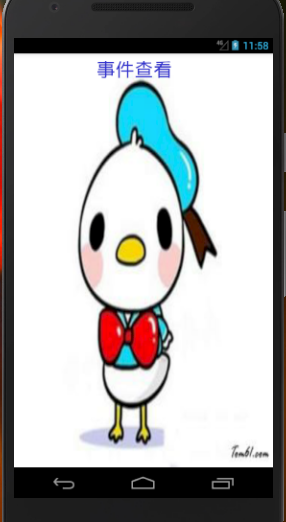
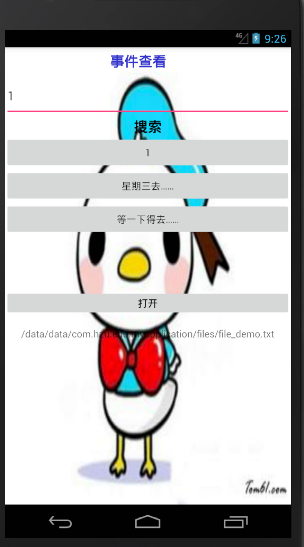
#5 第五次实验

diff --git a/soft1614080902428/java/chakan.java b/soft1614080902428/java/chakan.java
@@ -1,14 +1,158 @@
 package com.hzu.edu.myapplication;
 
+import android.app.Activity;
+import android.content.Intent;
 import android.os.Bundle;
+import android.support.design.widget.FloatingActionButton;
+import android.support.design.widget.Snackbar;
 import android.support.v7.app.AppCompatActivity;
+import android.support.v7.widget.Toolbar;
+import android.view.View;
+import android.widget.Button;
+import android.support.v7.app.AppCompatActivity;
+import android.os.Bundle;
+import java.util.ArrayList;
+import java.util.HashMap;
+import java.util.List;
+import java.util.Map;
+import android.app.Activity;
+import android.app.ListActivity;
+import android.content.Intent;
+import android.os.Bundle;
+import android.util.Log;
+import android.view.View;
+import android.widget.Button;
+import android.widget.ListView;
+import android.widget.SimpleAdapter;
+import android.widget.Toast;
+import android.support.v7.app.AppCompatActivity;
+
+import android.os.Bundle;
+
+import android.view.View;
+
+import android.widget.Button;
+
+import android.app.Activity;
+
+import android.content.Intent;
+
+import android.os.Environment;
+
+import android.util.Log;
+
+import android.widget.Button;
+
+import android.widget.EditText;
+
+import android.widget.TextView;
+
+import android.widget.Toast;
+
+
+
+import java.io.BufferedInputStream;
+
+import java.io.BufferedReader;
+
+import java.io.File;
+
+import java.io.FileInputStream;
+
+import java.io.FileNotFoundException;
+
+import java.io.FileOutputStream;
+
+import java.io.FileReader;
+
+import java.io.IOException;
 
 public class chakan extends AppCompatActivity {
 
+    public static final String DIRECTORY = "demo";
+    public static final String FILENAME = "file_demo.txt";
+    public static final String TAG = chakan.class.getSimpleName();
     @Override
     protected void onCreate(Bundle savedInstanceState) {
         super.onCreate(savedInstanceState);
         setContentView(R.layout.activity_chakan);
+        final Activity thisActivity = this;
+        ((Button) findViewById(R.id.Button5)).setOnClickListener(new View.OnClickListener() {
+            @Override
+            public void onClick(View view) {
+                String text = ((EditText) findViewById(R.id.edit_text)).getText().toString();
+                saveTextIntoInternalStorage(text);
+            }
+        });
+
+    }
+    // 将文字保存到内部存储
+    private void saveTextIntoInternalStorage(String text) {
+        // 获取内部存储目录
+        File dir = this.getFilesDir();
+        //File dir = getCacheDir();
+        if (dir.isDirectory()) {
+//            dir.mkdir();
+//            dir.mkdirs();
+        }
+        if (dir.isFile()) {
+            // D:/Abc.txt , -> D:/Abc1.txt ->D:/abc.txt
+        }
+        File file = new File(dir, FILENAME);
+//        try {
+//            File = File.createTempFile(FILENAME, null, dir);
+//        } catch (IOException e) {
+//            e.printStackTrace();
+//        }
+        if (file.exists()) { // 判断文件是否存在
+            Log.i(TAG, file.getAbsolutePath());
+            Log.i(TAG, file.length() + ""); // bytes*1024=kb *1024 MB
+            Log.i(TAG, file.isFile() + "");
+            file.canRead();
+            file.canWrite();
+            file.canExecute();
+            file.getFreeSpace();
+            file.getTotalSpace();
+        }
+        FileOutputStream fos = null;  // 字节流  | char | cn : gbk 2 bytes, utf8 3 bytes
+        try { // 使用API打开输出流
+            fos = openFileOutput(FILENAME, MODE_PRIVATE);
+            //FileOutputStream fos = new FileOutputStream(file);
+            fos.write(text.getBytes()); // 写入内容
+            fos.close(); // 关闭流
+        } catch (FileNotFoundException e) {
+            e.printStackTrace();
+        } catch (IOException e) {
+            e.printStackTrace();
+        } finally {
+            try {
+                fos.close();
+            } catch (IOException e) {
+                e.printStackTrace();
+            }
+        }
+        FileReader reader = null; // char
+        try {
+            reader = new FileReader(file.getAbsoluteFile());
+            BufferedReader bReader = new BufferedReader(reader);
+            String line = bReader.readLine();
+            Log.i(TAG, "从文件读取的内容: " + line);
+            bReader.close();
+            reader.close();
+        } catch (FileNotFoundException e) {
+            e.printStackTrace();
+        } catch (IOException e) {
+            e.printStackTrace();
+        }
+        // 显示结果
+        showResult(file.getAbsolutePath());
+        // 删除文件
+        // file.delete();
+        // deleteFile(FILENAME);
+    }
+    private void showResult(String result) {
+        ((TextView) findViewById(R.id.view1))
+                .setText(result.toCharArray(), 0, result.length());
     }
 
 }
